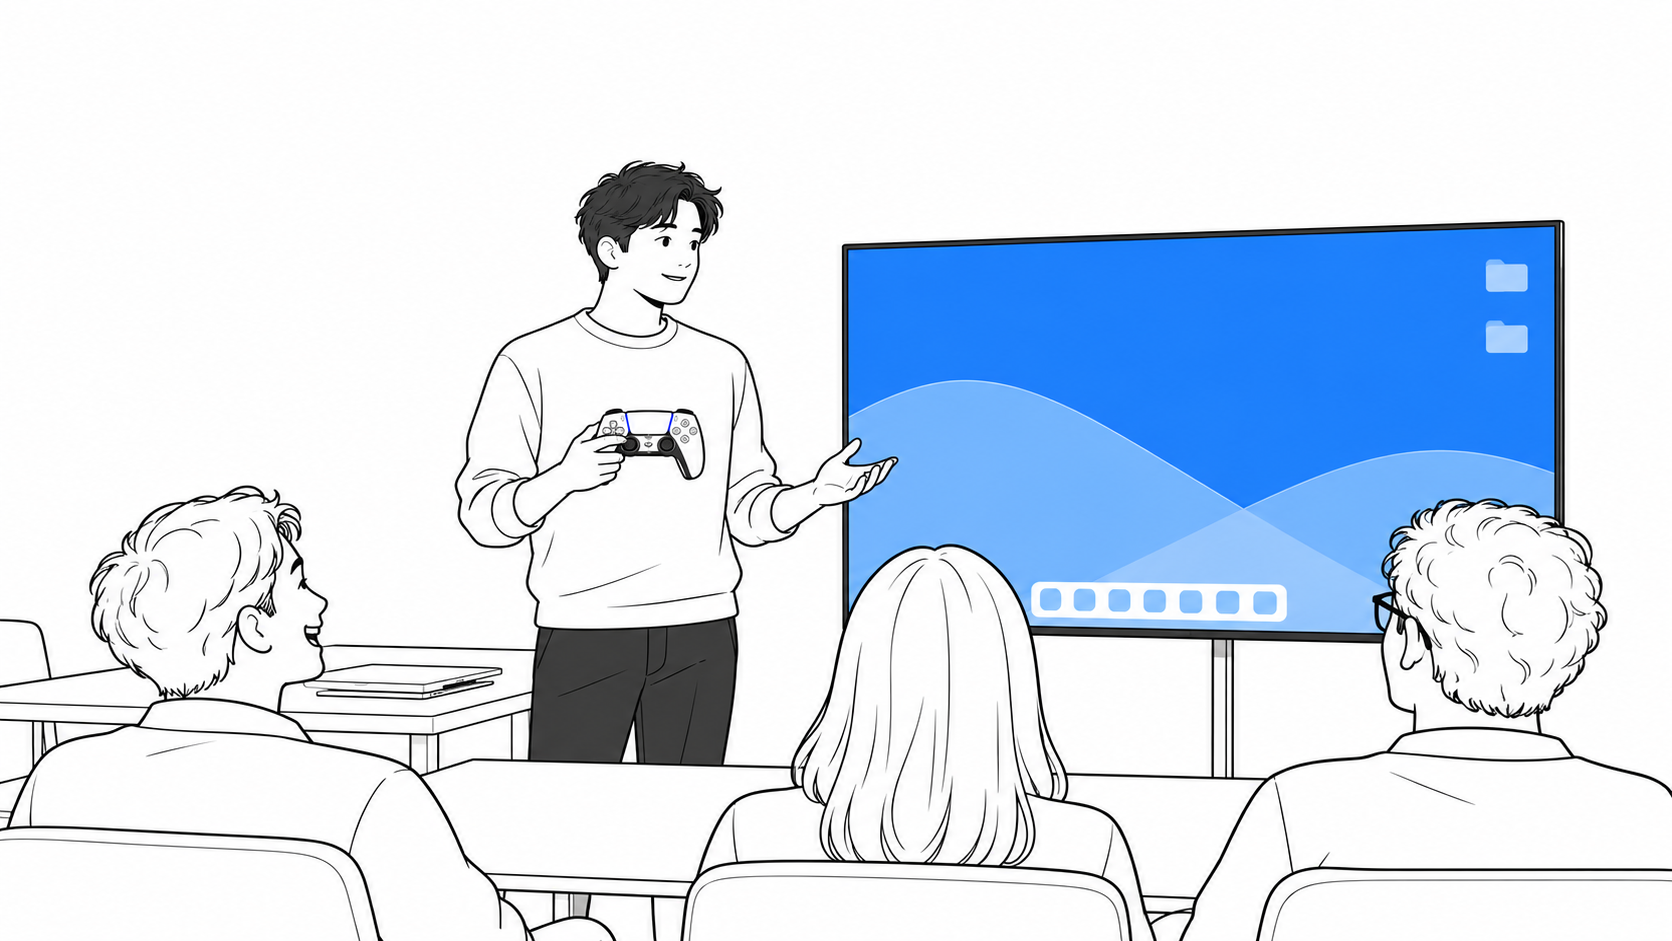
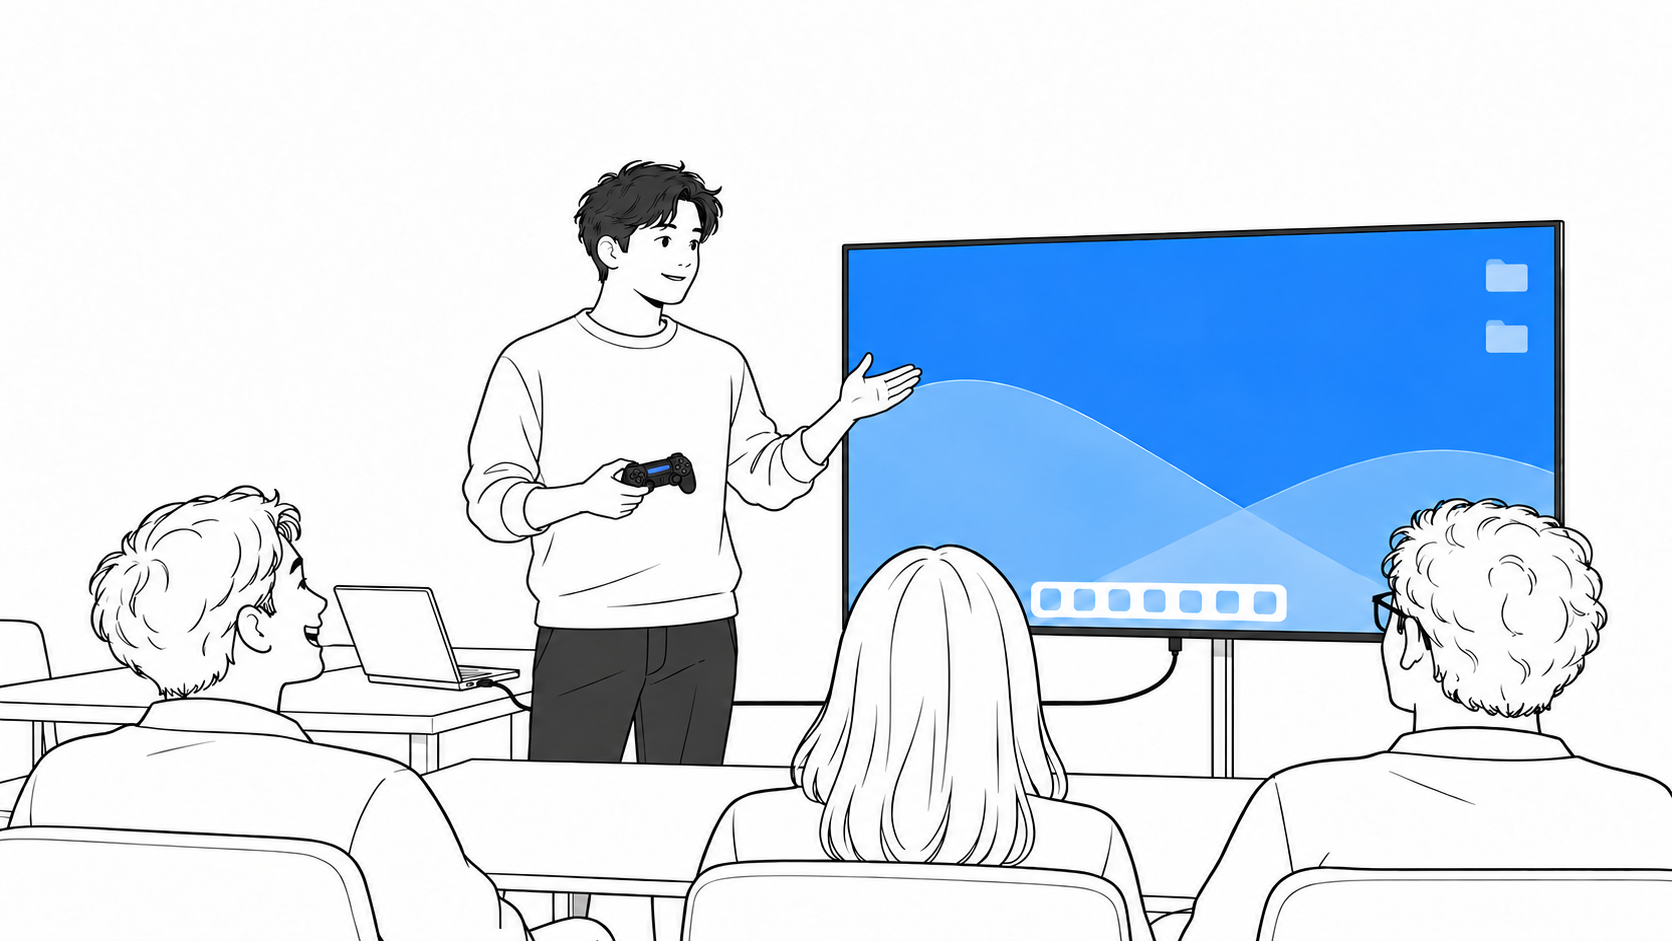
feat(home): the drawings show the Mac driving the screen, and the price reads in three lines
Sean's call: someone who isn't technical should see that the Mac is plugged
into the TV or the room screen. The sofa now has an open MacBook on the TV
stand cabled to the TV (the keyboard stays under the cat, which is the
hero's "over there"); the presenter holds the controller like a player,
points at the screen with the other hand, and the laptop is open and
cabled. Redrawn with the same Codex image edit as the earlier art; prompts
in scratch/regen/story-2026-10-13/. Alt text follows.

The cost heading is the question, "No card, no account", then the price.
"It goes online only for the licence check and updates" was false (a pasted
setup URL fetches too), so it now lists all three. The share card's alt
text described the old card. base.njk's two long comments are cut to what a
reader must not break; their history is in git.

Claude-Session: https://claude.ai/code/session_01A2kN9smtopK9dEJVkxHDmz

diff --git a/src/_includes/bands/home/hero.html b/src/_includes/bands/home/hero.html
@@ -14,7 +14,7 @@
     <figure class="p-sofa">
       <div class="sheet scene sofa">
         <div class="box" id="sofa-box">
-          {{ place("sofa", "Ink drawing: someone on a sofa, feet up, runs the Mac on the TV with a controller. Across the room the keyboard sits on a side table under a sleeping cat.", "(max-width: 1000px) 100vw, 1000px") }}
+          {{ place("sofa", "Ink drawing: someone on a sofa, feet up, runs the Mac on the TV with a controller; the laptop on the TV stand is plugged into the TV. Across the room the keyboard sits on a side table under a sleeping cat.", "(max-width: 1000px) 100vw, 1000px") }}
         </div>
       </div>
       <figcaption class="h-tag">On the sofa</figcaption>
@@ -30,7 +30,7 @@
     <figure class="p-side">
       <div class="sheet scene side room">
         <div class="box">
-          {{ place("room", "Ink drawing: a presenter stands by the screen with a controller in hand; the laptop is closed on the table and the room laughs.", "(max-width: 600px) 160vw, (max-width: 1000px) 65vw, 500px") }}
+          {{ place("room", "Ink drawing: a presenter holds a controller in one hand and points at the screen with the other; the laptop on the table is plugged into the screen and the room laughs.", "(max-width: 600px) 160vw, (max-width: 1000px) 65vw, 500px") }}
         </div>
       </div>
       <figcaption class="h-tag">Front of the room</figcaption>

diff --git a/src/_includes/bands/home/cost.html b/src/_includes/bands/home/cost.html
@@ -3,7 +3,7 @@
      you ask for (SUEnableAutomaticChecks=false). -->
 <section class="q q-short" aria-labelledby="q-cost">
   <div class="head">
-    <h2 id="q-cost" class="display"><span class="pain">How much is it?</span> <span>14 days free, then €19.99 once.</span></h2>
-    <div class="body"><p>No card for the trial. Change your mind after buying? One email gets a refund, no forms. <a href="refund.html">How refunds work</a></p><p>It goes online only for the licence check and the updates you ask for.</p></div>
+    <h2 id="q-cost" class="display"><span class="pain">How much is it?</span> <span>14 days free. No card, no account.</span> <span>Then €19.99, once.</span></h2>
+    <div class="body"><p>Change your mind after buying? One email gets a refund, no forms. <a href="refund.html">How refunds work</a></p><p>It goes online to check your licence, for updates you ask for, and to fetch a setup from a web address you paste in.</p></div>
   </div>
 </section>
